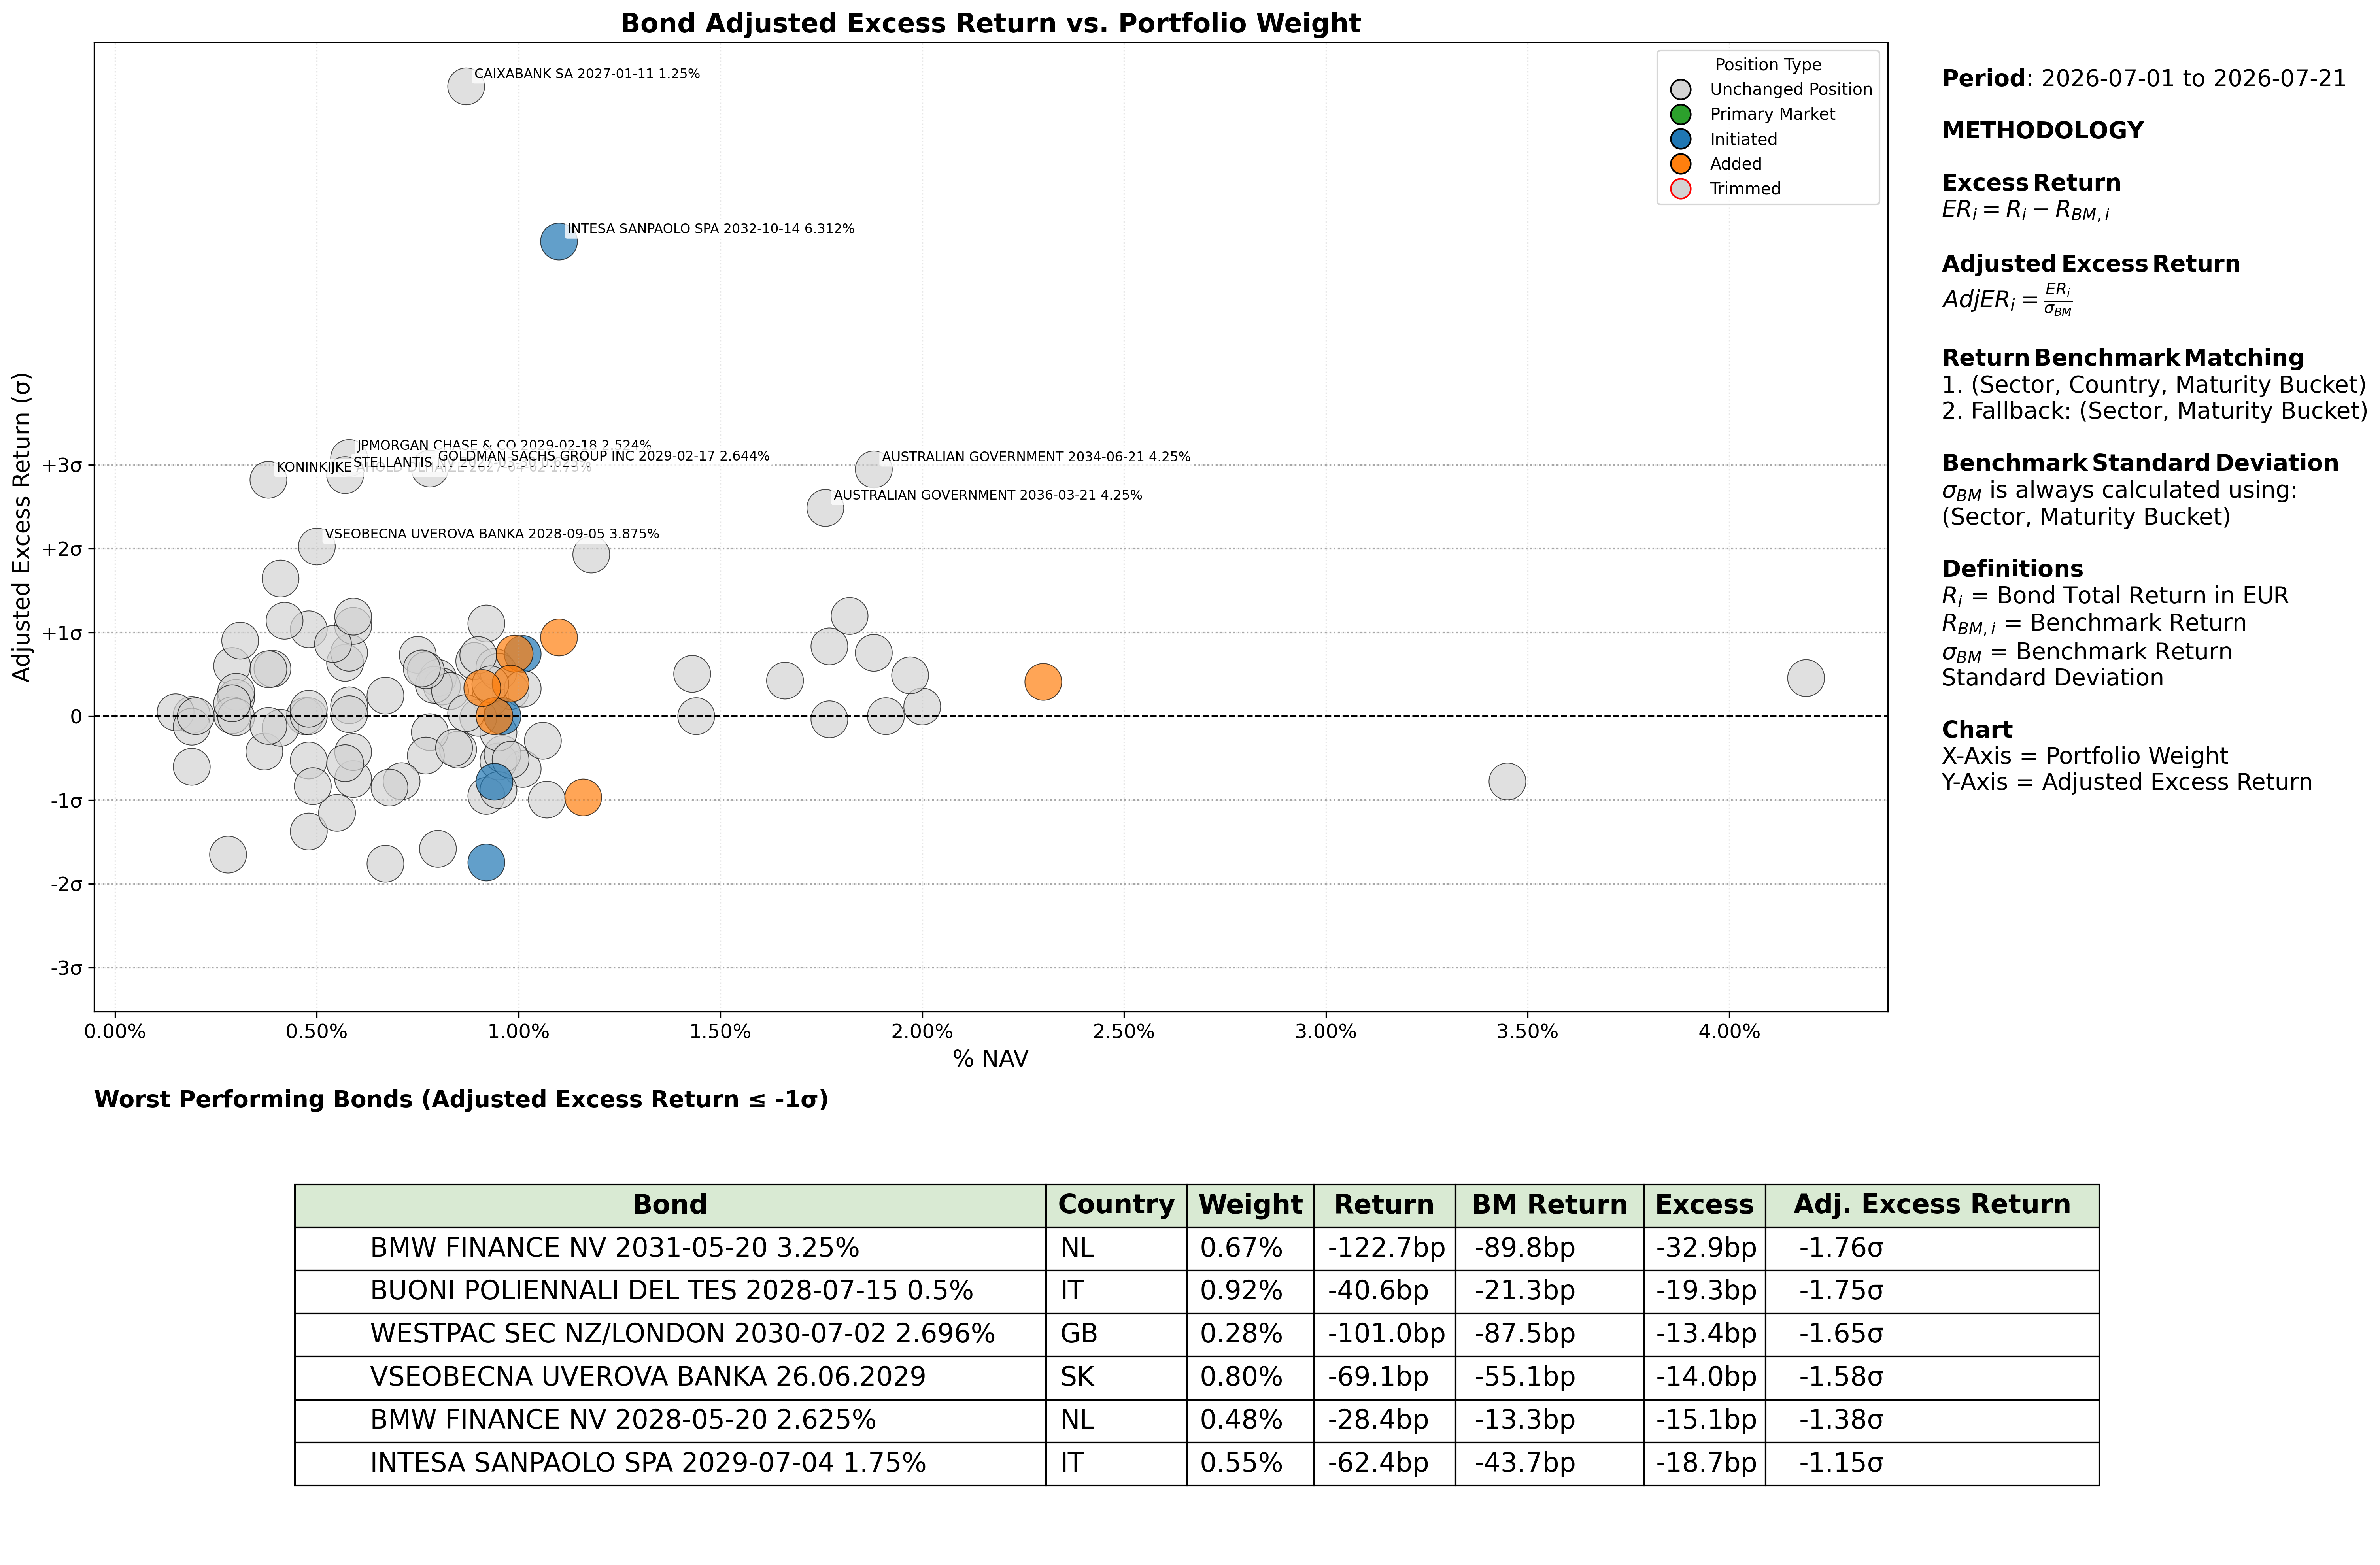
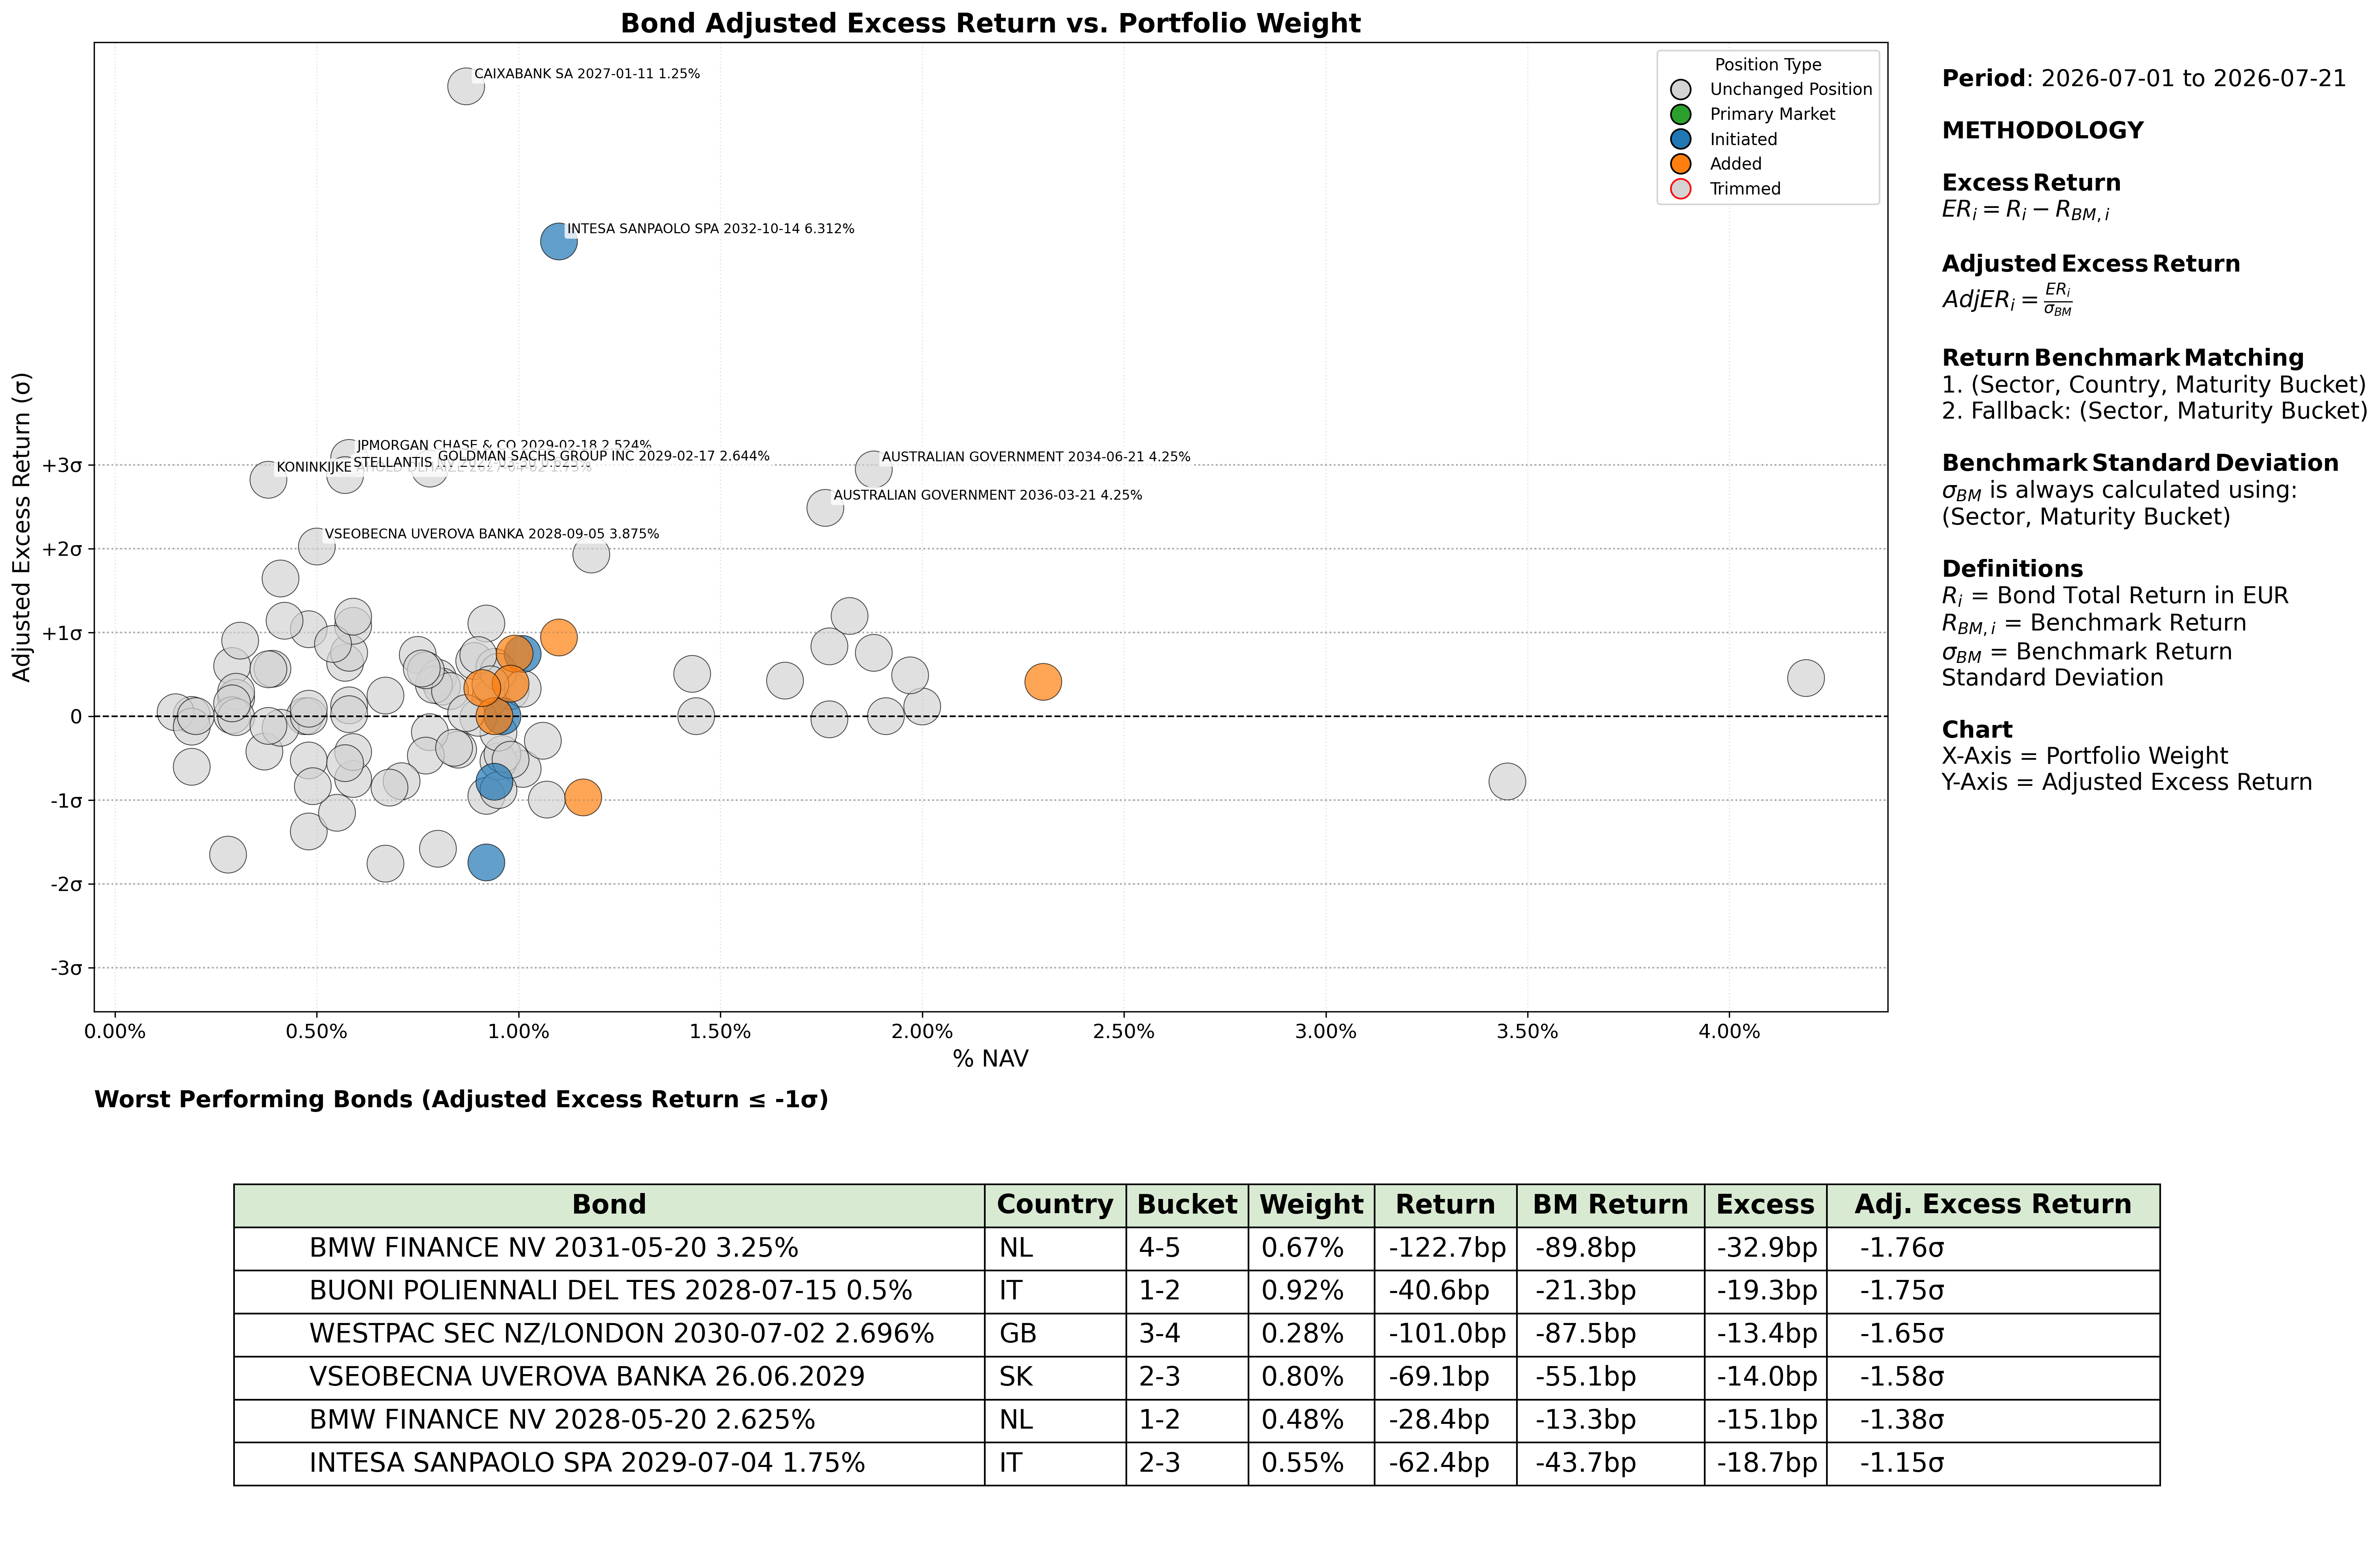
add bond table

Changed region(s): [[0.0937, 0.7456, 0.9056, 0.9631]]

diff --git a/analytics/plots/plot_bond_excess_returns.py b/analytics/plots/plot_bond_excess_returns.py
@@ -352,6 +352,7 @@ def plot_bond_excess_return(
             [
                 "instrument_name",
                 "country",
+                "bucket",
                 "nav_pct",
                 "return",
                 "bm_return",
@@ -383,6 +384,7 @@ def plot_bond_excess_return(
         table_df.columns = [
             "Bond",
             "Country",
+            "Bucket",
             "Weight",
             "Return",
             "BM Return",